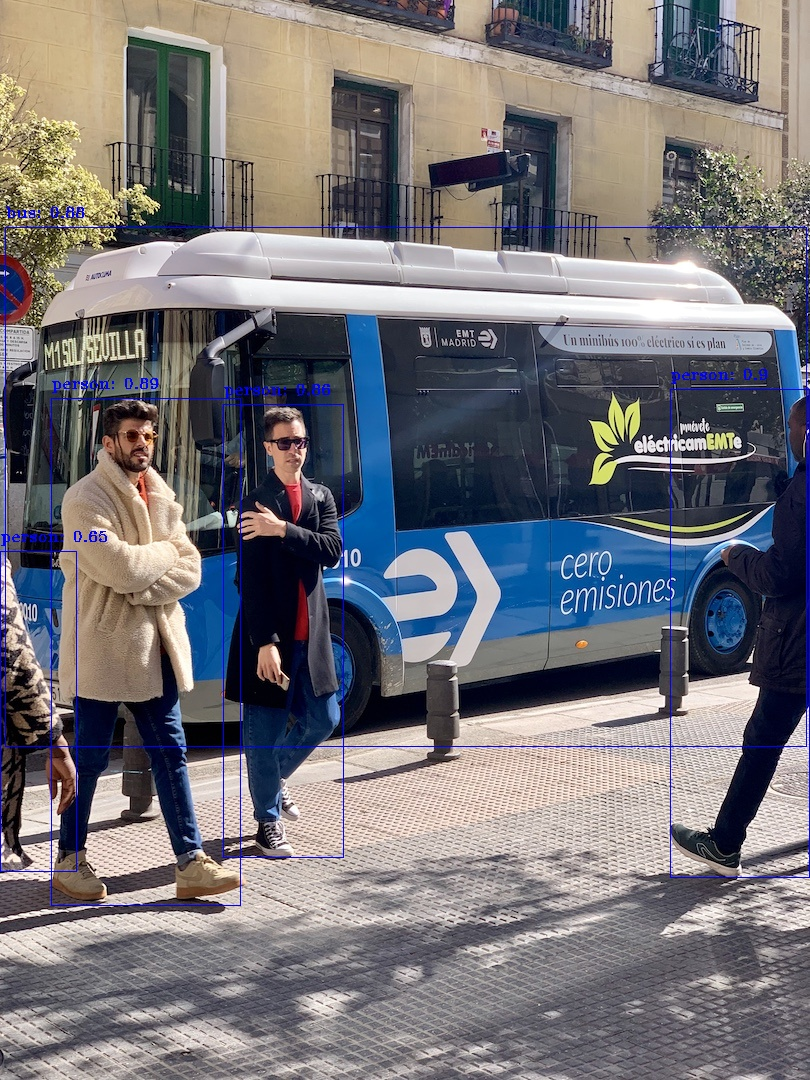
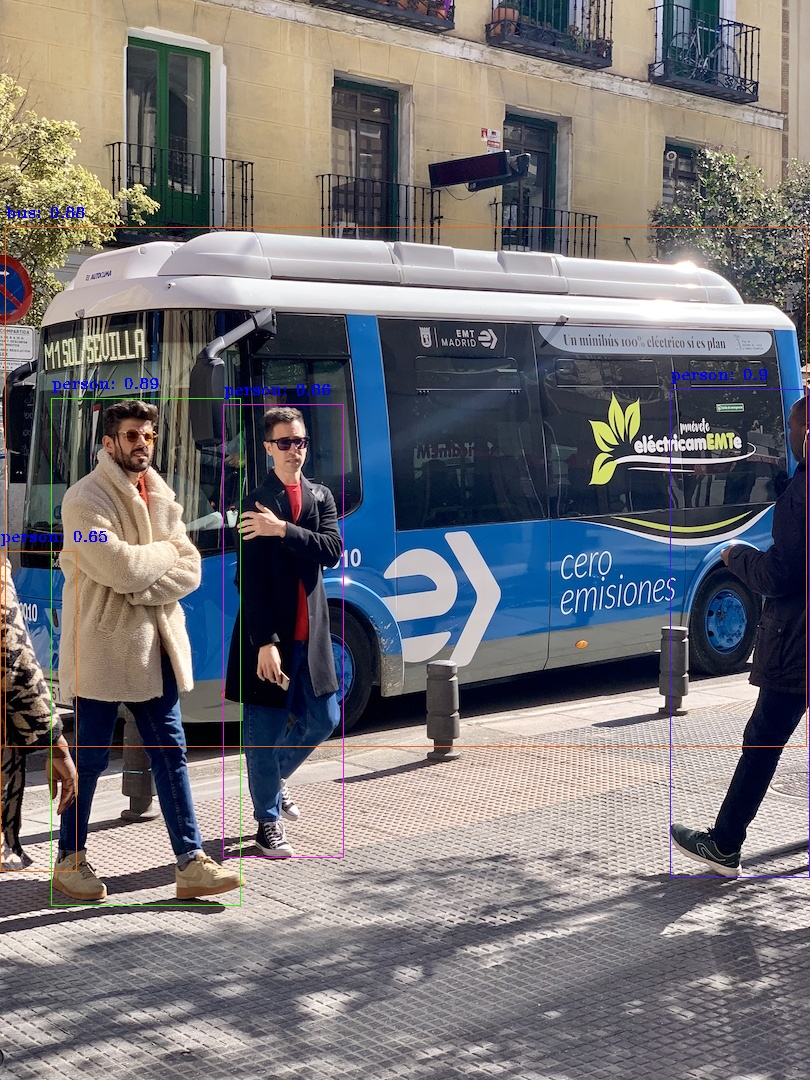
feat：新增对于yoloV11的pose任务推理 将画框颜色改为了随机高亮颜色

Changed region(s): [[0.0, 0.1833, 1.0, 0.8556], [0.4012, 0.7639, 0.4321, 0.7944], [0.4012, 0.3667, 0.4321, 0.3972]]

diff --git a/src/main/java/com/feimatu/utils/ImageUtils.java b/src/main/java/com/feimatu/utils/ImageUtils.java
@@ -1,6 +1,7 @@
 package com.feimatu.utils;
 
 import com.feimatu.entitys.BoundingBox;
+import com.feimatu.entitys.KeyPoint;
 import org.bytedeco.opencv.global.opencv_imgcodecs;
 import org.bytedeco.opencv.global.opencv_imgproc;
 import org.bytedeco.opencv.opencv_core.Mat;
@@ -10,12 +11,16 @@ import org.bytedeco.opencv.opencv_core.Scalar;
 import java.math.BigDecimal;
 import java.math.RoundingMode;
 import java.util.List;
+import java.util.concurrent.ThreadLocalRandom;
 
 /**
  * @author mazepeng
  * @date 2024/2/6 17:30
  */
 public class ImageUtils {
+    private static final double CONFIDENCE_THRESHOLD = 0.7; // 设置置信度阈值
+
+
     public static void pictureFrame(Mat mat, List<BoundingBox> boundingBoxes, String outFile) {
         for (BoundingBox boundingBox : boundingBoxes) {
             // 计算矩形的左上角和右下角坐标
@@ -23,15 +28,85 @@ public class ImageUtils {
                  Point bottomRight = new Point((int) (boundingBox.getXCenter() + boundingBox.getWidth()), (int) (boundingBox.getYCenter() + boundingBox.getHeight()));
                  Point org = new Point(topLeft.x(), topLeft.y() - 10);
             ) {
-                opencv_imgproc.rectangle(mat, topLeft, bottomRight, new Scalar(255, 0, 0, 1), 1, opencv_imgproc.LINE_8, 0);
+                opencv_imgproc.rectangle(mat, topLeft, bottomRight, getHighContrastRandomColor(), 1, opencv_imgproc.LINE_8, 0);
                 // 文字起始点坐标
                 BigDecimal bigDecimal = BigDecimal.valueOf(boundingBox.getScore());
                 bigDecimal = bigDecimal.setScale(2, RoundingMode.HALF_UP);
                 opencv_imgproc.putText(mat, boundingBox.getCategoryName()+": " + bigDecimal.doubleValue(), org, opencv_imgproc.FONT_HERSHEY_TRIPLEX, 0.5, new Scalar(255, 0, 0, 1));
+                List<KeyPoint> keyPoints = boundingBox.getKeyPoints();
+                if (keyPoints !=null && !keyPoints.isEmpty()) {
+                    for (KeyPoint keypoint : keyPoints) {
+                        if (keypoint.getKeypointConf() >= CONFIDENCE_THRESHOLD) {
+                            opencv_imgproc.circle(mat, new Point((int) keypoint.getKeypointX(), (int) keypoint.getKeypointY()), 5, getHighContrastRandomColor(), -1, opencv_imgproc.LINE_AA, 0);
+                        }
+                    }
+                    drawSkeleton(mat, keyPoints);
+                }
+
             }
         }
         opencv_imgcodecs.imwrite(outFile, mat);
+    }
+
+    // 生成高对比度随机颜色的方法
+    public static Scalar getHighContrastRandomColor() {
+        // 随机生成较大范围的色相值（0-360）
+        float hue = ThreadLocalRandom.current().nextFloat() * 360;
+        float saturation = 0.9f; // 设置高饱和度
+        float value = 0.9f;      // 设置高亮度
+
+        // 将 HSV 转换为 RGB
+        return hsvToBgr(hue, saturation, value);
+    }
+
+    // 将 HSV 转换为 OpenCV BGR 格式的 Scalar
+    public static Scalar hsvToBgr(float hue, float saturation, float value) {
+        int h = (int)(hue / 60) % 6;
+        float f = (hue / 60) - h;
+        float p = value * (1 - saturation);
+        float q = value * (1 - f * saturation);
+        float t = value * (1 - (1 - f) * saturation);
+
+        float r = 0, g = 0, b = 0;
+        switch (h) {
+            case 0 -> { r = value; g = t; b = p; }
+            case 1 -> { r = q; g = value; b = p; }
+            case 2 -> { r = p; g = value; b = t; }
+            case 3 -> { r = p; g = q; b = value; }
+            case 4 -> { r = t; g = p; b = value; }
+            case 5 -> { r = value; g = p; b = q; }
+        }
+
+        return new Scalar(b * 255, g * 255, r * 255, 1);
+    }
 
 
+    // 绘制骨架连接线
+    public static void drawSkeleton(Mat mat, List<KeyPoint> keyPoints) {
+        // 定义连接的骨架对
+        int[][] skeleton = {
+                {0, 1}, {0, 2}, {1, 3}, {2, 4},   // 头部和脸部
+                {5, 6}, {5, 7}, {6, 8},           // 肩膀和手臂上段
+                {7, 9}, {8, 10},                  // 手臂下段
+                {5, 11}, {6, 12},                 // 肩膀到臀部
+                {11, 12},                         // 腰部连接
+                {11, 13}, {12, 14},               // 腰到膝盖
+                {13, 15}, {14, 16}                // 膝盖到脚踝
+        };
+
+        // 遍历每对关键点并绘制连线
+        for (int[] pair : skeleton) {
+            KeyPoint pt1 = keyPoints.get(pair[0]);
+            KeyPoint pt2 = keyPoints.get(pair[1]);
+
+            // 仅当两个点的置信度都高于阈值时才绘制连线
+            if (pt1.getKeypointConf() >= CONFIDENCE_THRESHOLD && pt2.getKeypointConf() >= CONFIDENCE_THRESHOLD) {
+                opencv_imgproc.line(mat,
+                        new Point((int) pt1.getKeypointX(), (int) pt1.getKeypointY()),
+                        new Point((int) pt2.getKeypointX(), (int) pt2.getKeypointY()),
+                        new Scalar(0, 255, 0, 1), 2, opencv_imgproc.LINE_AA, 0
+                );
+            }
+        }
     }
 }

diff --git a/src/main/java/com/feimatu/utils/KeypointPostProcessor.java b/src/main/java/com/feimatu/utils/KeypointPostProcessor.java
@@ -1,0 +1,79 @@
+package com.feimatu.utils;
+
+import ai.onnxruntime.*;
+import com.feimatu.entitys.BoundingBox;
+import com.feimatu.entitys.KeyPoint;
+import org.bytedeco.opencv.opencv_core.Mat;
+import org.nd4j.linalg.api.ndarray.INDArray;
+import org.nd4j.linalg.factory.Nd4j;
+
+import java.util.ArrayList;
+import java.util.List;
+import java.util.Map;
+
+/**
+ * @author mazepeng
+ * @date 2024/10/29 下午5:52
+ */
+public class KeypointPostProcessor {
+
+    public static List<BoundingBox> getBoundingBoxes(OrtEnvironment environment, Mat mat, OrtSession session, Mat clone) throws OrtException {
+        OnnxTensor onnxTensor = ImagePreprocessingUtils.img2OnnxTensor(environment, mat);
+        Map<String, OnnxTensor> input = Map.of("images", onnxTensor);
+        OrtSession.Result run = session.run(input);
+        OnnxTensor onnxTensorResults = (OnnxTensor) run.get(0);
+
+
+        float[][][] outputData = (float[][][]) onnxTensorResults.getValue();
+        INDArray permute;
+        List<BoundingBox> boundingBoxes;
+        try (INDArray fromArray = Nd4j.createFromArray(outputData)) {
+            permute = fromArray.permute(0, 2, 1);
+            boundingBoxes = KeypointPostProcessor.processYoloPoseOutput(permute, 0.5, 0.8, clone);
+        }
+        return boundingBoxes;
+    }
+
+    private static List<BoundingBox> processYoloPoseOutput(INDArray transposedArray, double confThreshold, double iouThreshold, Mat mat) {
+        List<BoundingBox> boundingBoxes = new ArrayList<>();
+        int numBoxes = (int) transposedArray.shape()[1];
+        int numAttributes = (int) transposedArray.shape()[2];
+        double wide = mat.cols() / 640.0;
+        double high = mat.rows() / 640.0;
+        for (int i = 0; i < numBoxes; i++) {
+            double confidence = transposedArray.getDouble(0, i, 4);
+            if (confidence < confThreshold) {
+                continue;
+            }
+            BoundingBox boundingBox = new BoundingBox();
+            // 提取边界框
+            double cx = transposedArray.getDouble(0, i, 0);
+            double cy = transposedArray.getDouble(0, i, 1);
+            double w = transposedArray.getDouble(0, i, 2);
+            double h = transposedArray.getDouble(0, i, 3);
+            double xMin = (cx - w / 2) * wide;
+            double yMin = (cy - h / 2) * high;
+            double xMax = (w) * wide;
+            double yMax = (h) * high;
+            boundingBox.setXCenter(xMin);
+            boundingBox.setYCenter(yMin);
+            boundingBox.setWidth(xMax);
+            boundingBox.setHeight(yMax);
+            boundingBox.setScore(confidence);
+
+            // 提取关键点
+            ArrayList<KeyPoint> keyPoints = new ArrayList<>();
+            boundingBox.setKeyPoints(keyPoints);
+            for (int j = 5; j < numAttributes; j += 3) {
+                double keypointX = transposedArray.getDouble(0, i, j);
+                double keypointY = transposedArray.getDouble(0, i, j + 1);
+                double keypointConf = transposedArray.getDouble(0, i, j + 2);
+
+                KeyPoint keypoint = new KeyPoint(keypointX * wide, keypointY * high, keypointConf);
+                keyPoints.add(keypoint);
+            }
+            boundingBoxes.add(boundingBox);
+        }
+        return NMSUtils.nmsWithCategories(boundingBoxes, iouThreshold);
+    }
+}

diff --git a/src/main/java/com/feimatu/yolo11_pose.java b/src/main/java/com/feimatu/yolo11_pose.java
@@ -1,0 +1,29 @@
+package com.feimatu;
+
+import ai.onnxruntime.*;
+import com.feimatu.entitys.BoundingBox;
+import com.feimatu.utils.*;
+import org.bytedeco.opencv.opencv_core.Mat;
+import java.util.List;
+
+/**
+ * @author mazepeng
+ * @date 2024/10/29 下午4:52
+ */
+public class yolo11_pose {
+
+    public static void main(String[] args) throws OrtException {
+
+        try (OrtEnvironment environment = OrtEnvironment.getEnvironment();
+             OrtSession session = environment.createSession("src/main/resources/yolo11x-pose.onnx");
+             Mat mat = ImagePreprocessingUtils.readPicture("src/main/resources/img.png")
+        ) {
+
+            Mat clone = mat.clone();
+            List<BoundingBox> boundingBoxes = KeypointPostProcessor.getBoundingBoxes(environment, mat, session, clone);
+            ImageUtils.pictureFrame(clone, boundingBoxes, "src/main/resources/img1.png");
+        }
+    }
+
+
+}

diff --git a/src/main/java/com/feimatu/utils/PostProcessingOfPredictionResults.java b/src/main/java/com/feimatu/utils/PostProcessingOfPredictionResults.java
@@ -62,7 +62,7 @@ public class PostProcessingOfPredictionResults {
                 int top = (int) ((y1 - h / 2) * high);
                 int width = (int) (w * wide);
                 int height = (int) (h * high);
-                BoundingBox boundingBox = new BoundingBox(left, top, width, height, aDouble, anInt,typeDictionary.getOrDefault(anInt,"unknown"));
+                BoundingBox boundingBox = new BoundingBox(left, top, width, height, aDouble, anInt,typeDictionary.getOrDefault(anInt,"unknown"),null);
                 boundingBoxes.add(boundingBox);
             }
         }

diff --git a/src/main/java/com/feimatu/entitys/BoundingBox.java b/src/main/java/com/feimatu/entitys/BoundingBox.java
@@ -4,6 +4,8 @@ import lombok.AllArgsConstructor;
 import lombok.Data;
 import lombok.NoArgsConstructor;
 
+import java.util.List;
+
 /**
  * @author mazepeng
  * @date 2024/2/6 15:04
@@ -20,5 +22,5 @@ public class BoundingBox {
     private double score;
     private int categoryId;
     private String categoryName;
-
+    List<KeyPoint> keyPoints;
 }

diff --git a/src/main/java/com/feimatu/entitys/KeyPoint.java b/src/main/java/com/feimatu/entitys/KeyPoint.java
@@ -1,0 +1,17 @@
+package com.feimatu.entitys;
+
+import lombok.AllArgsConstructor;
+import lombok.Data;
+
+/**
+ * @author mazepeng
+ * @date 2024/10/30 上午11:14
+ */
+@Data
+@AllArgsConstructor
+public class KeyPoint {
+    private double keypointX;
+    private double keypointY;
+    private double keypointConf;
+
+}

diff --git a/README.md b/README.md
@@ -1,1 +1,7 @@
 将yolov8模型导出为ONNX，并使用java进行预处理，推理
+
+实现了yoloV11的pose任务的推理
+原图
+![img.png](src/main/resources/img.png)
+推理后
+![img1.png](src/main/resources/img1.png)
